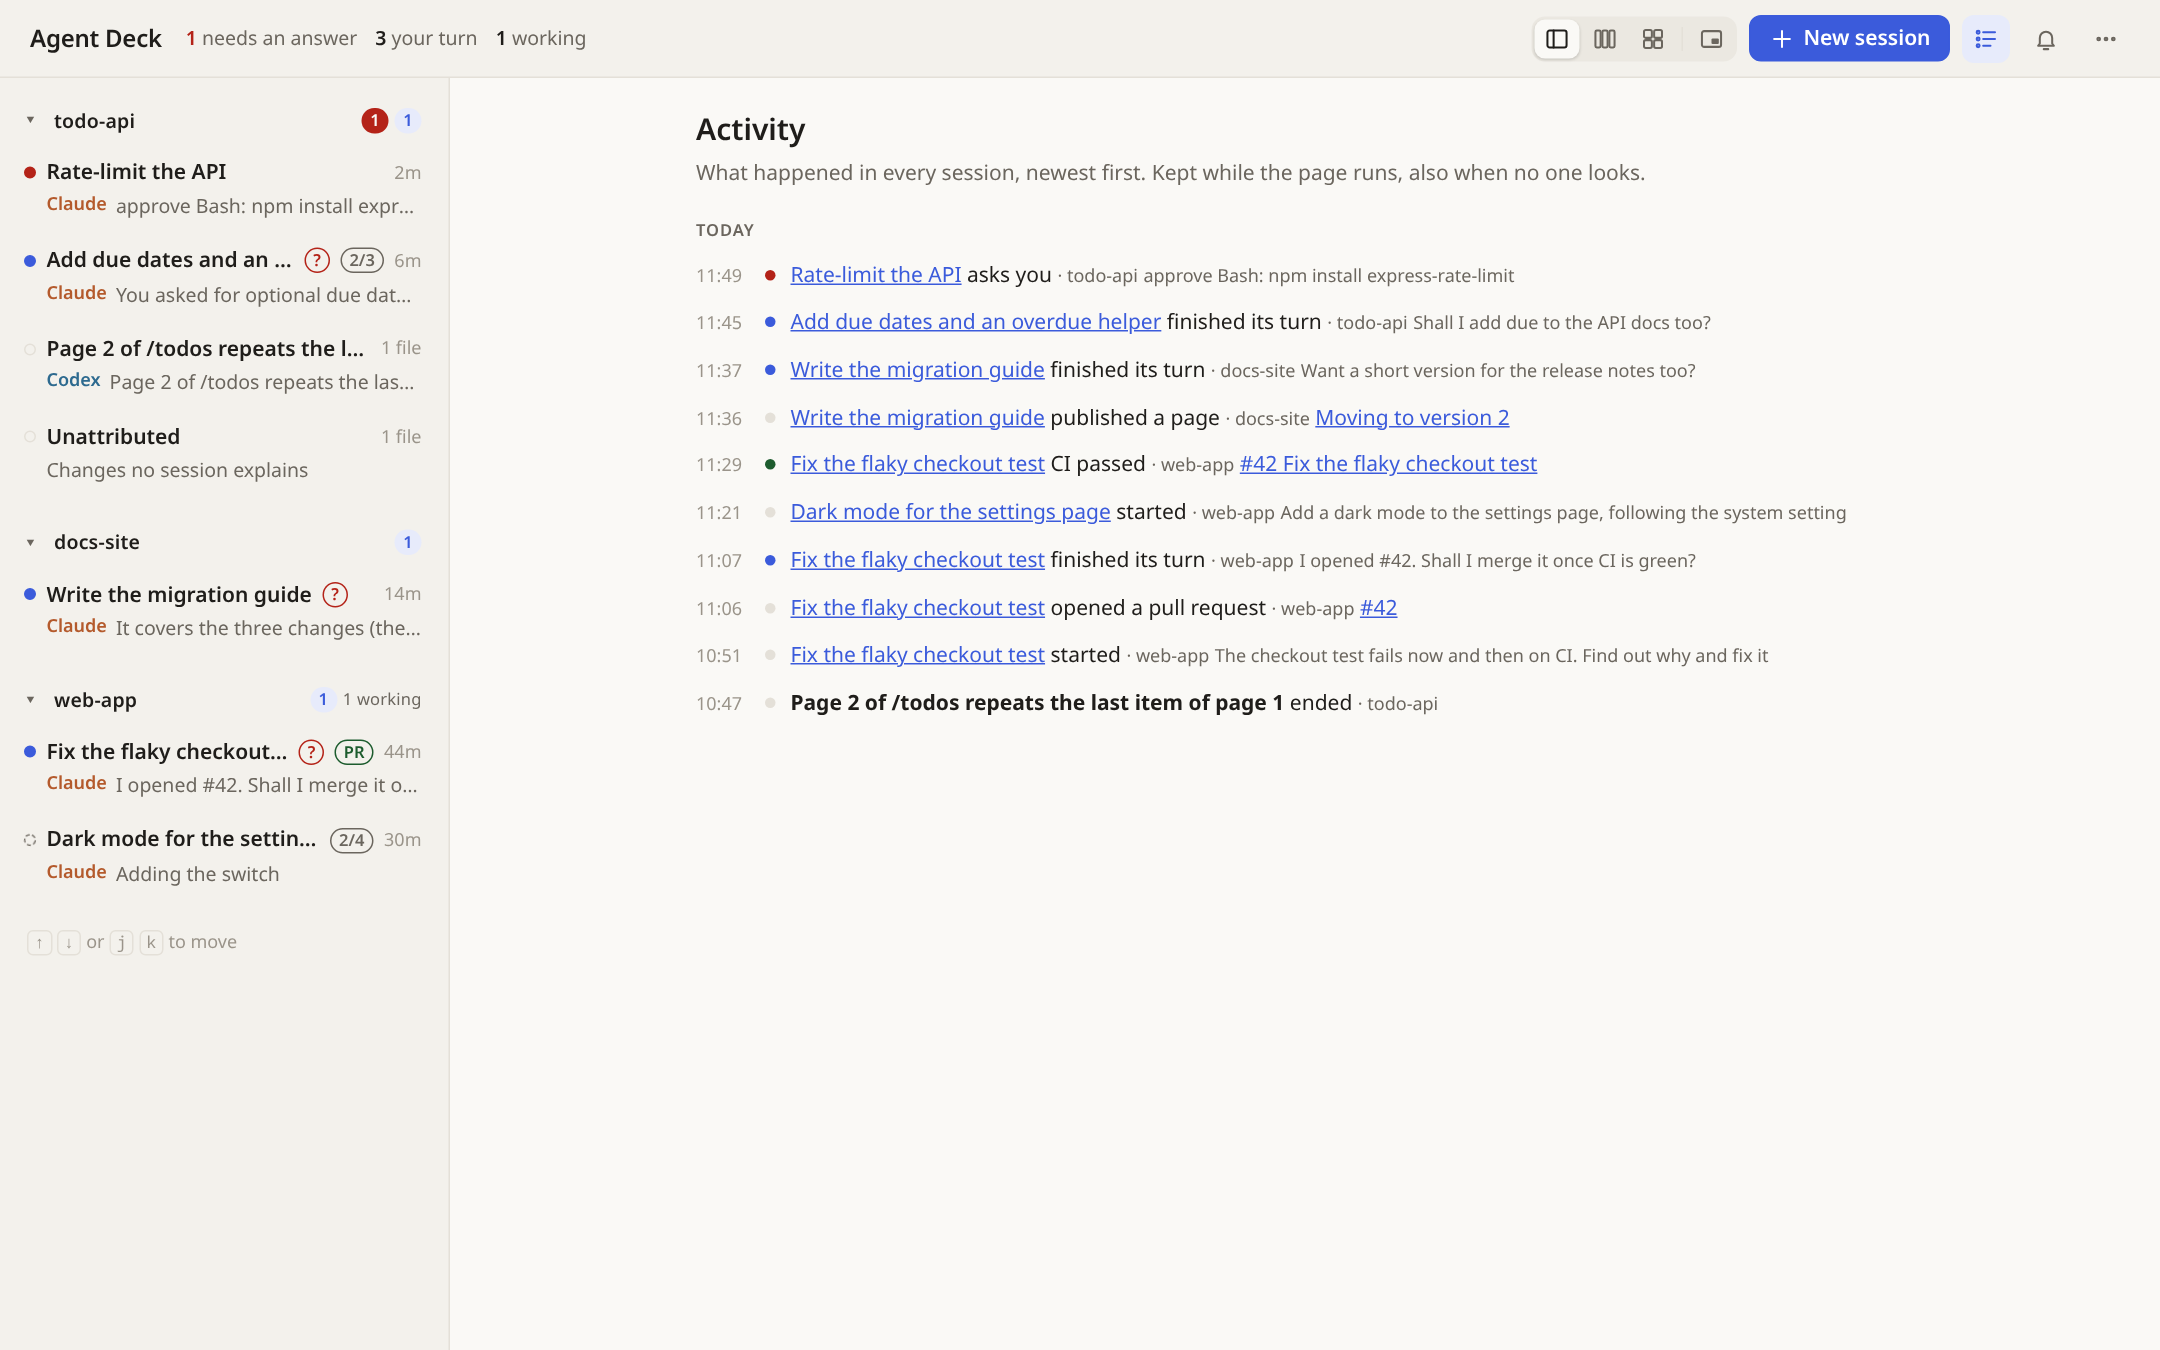
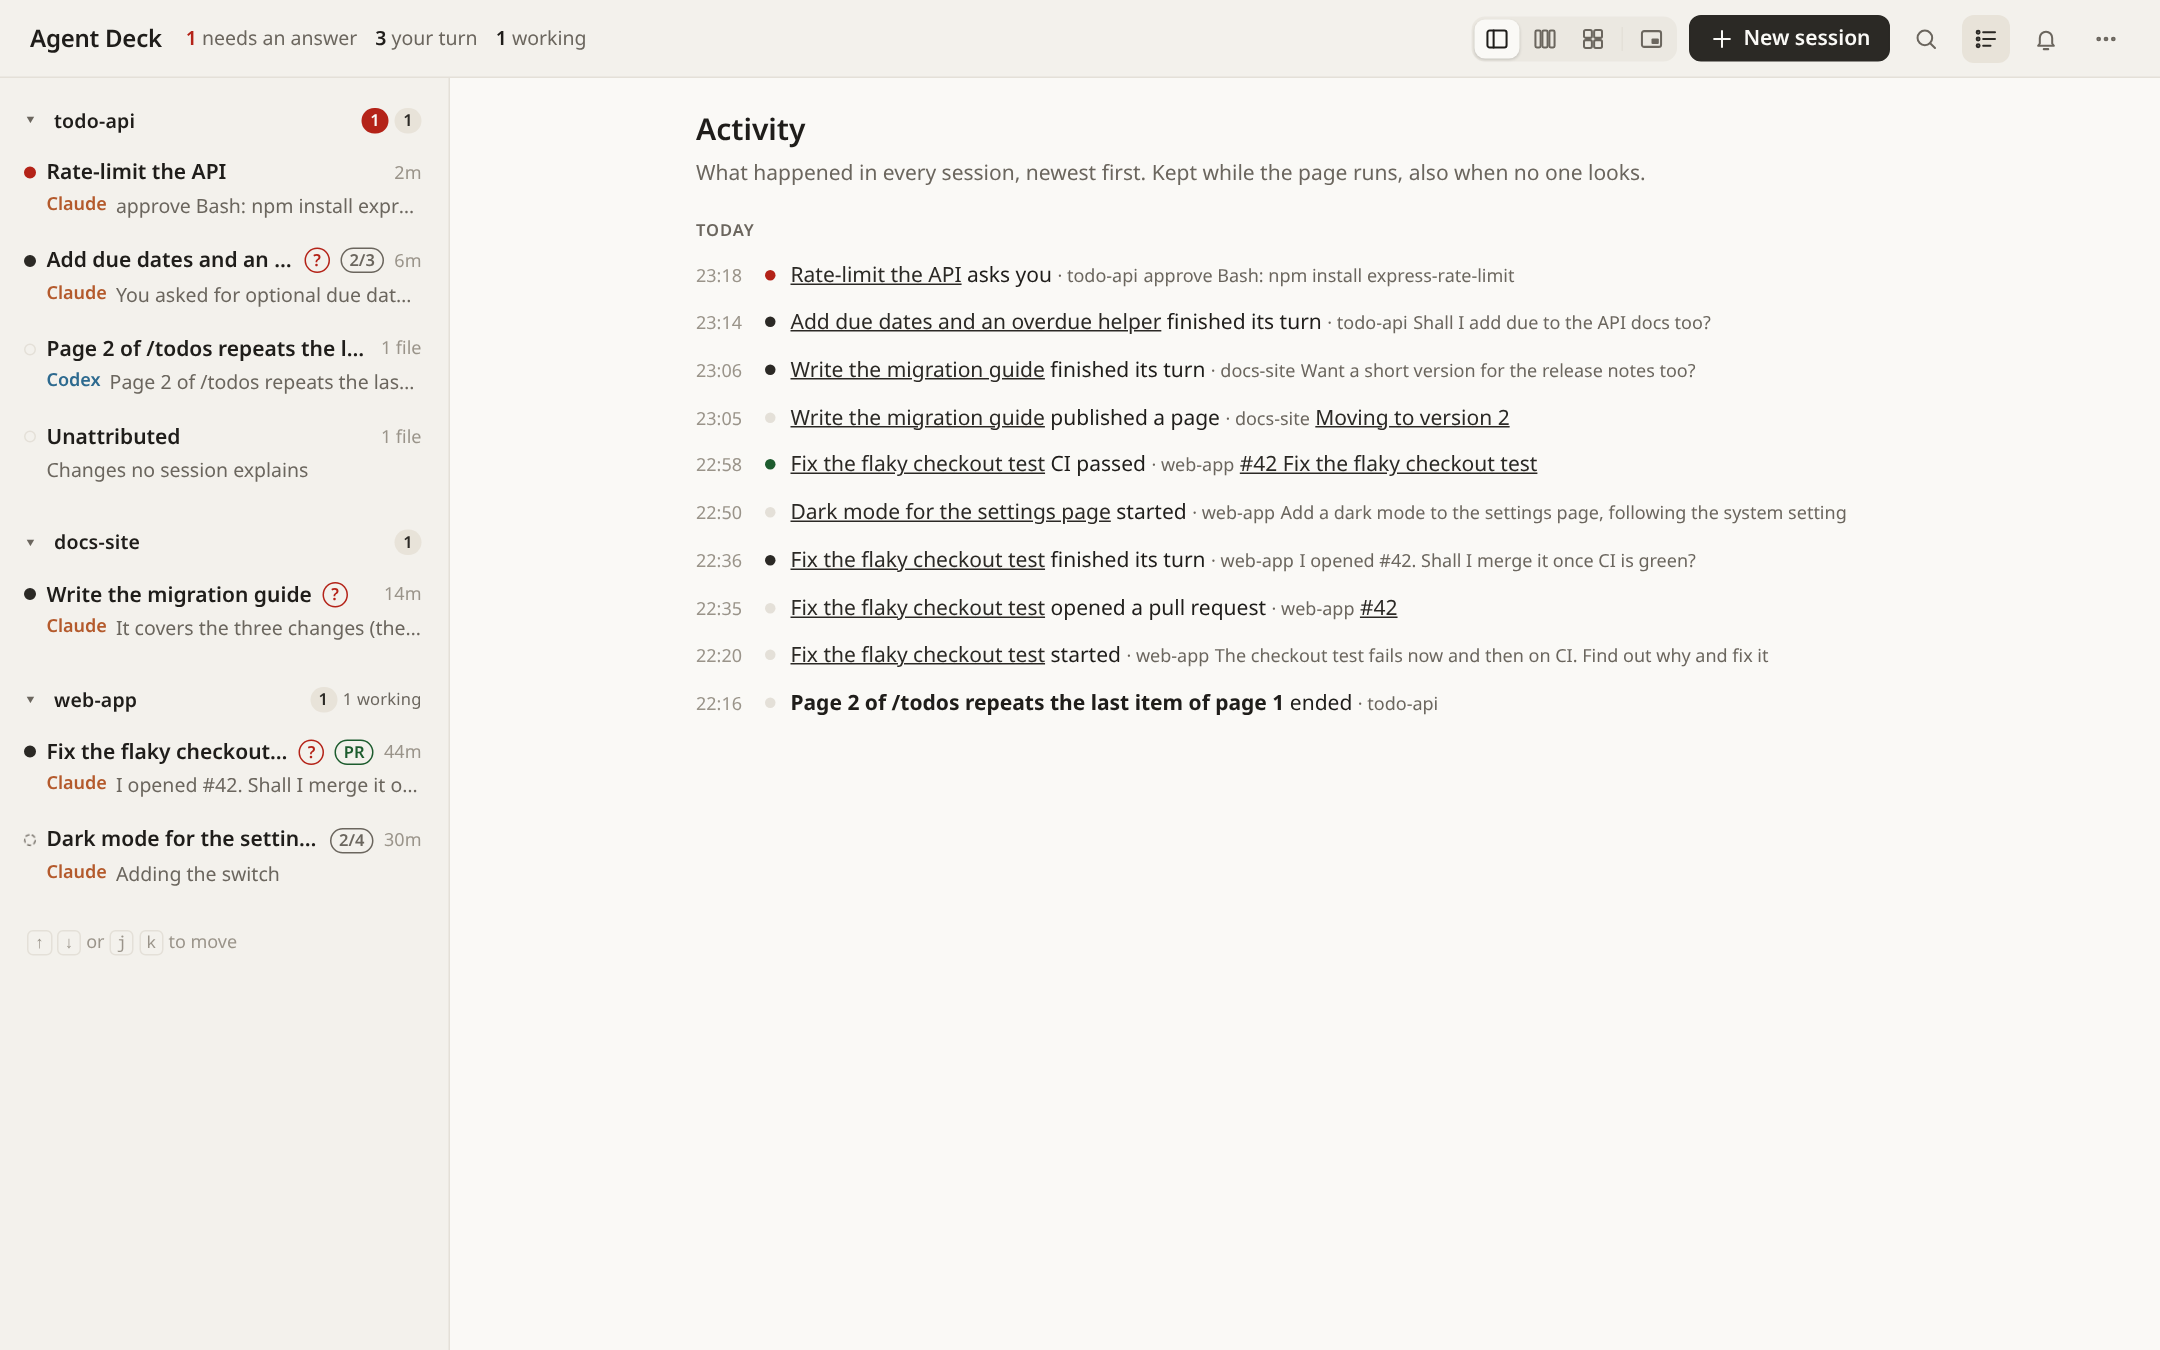
Themes: Sand, Blue, Green or Violet, in light or dark
The blue accent sat on warm neutrals and stood out from everything else.
Each palette now pairs its neutrals with its own accent; Sand, the default,
uses ink. More → Theme picks the palette and Auto, Light or Dark; a small
script in <head> applies it before the page is drawn.

diff --git a/src/viewer.html b/src/viewer.html
@@ -7,14 +7,19 @@
 <link rel="apple-touch-icon" href="/icon-180.png">
 <meta name="apple-mobile-web-app-capable" content="yes">
 <meta name="apple-mobile-web-app-title" content="Agent Deck">
-<meta name="theme-color" content="#faf9f6" media="(prefers-color-scheme: light)">
-<meta name="theme-color" content="#1b1a18" media="(prefers-color-scheme: dark)">
+<meta name="theme-color" content="#faf9f6">
 <title>Agent Deck</title>
 <style>
+/*
+ * Themes: a palette (the neutrals and the one color that marks what you can act on) in light and
+ * dark. The script in <head> sets data-palette and data-theme (light or dark, Auto following the
+ * system) before the page is drawn. Status colors (Claude, Codex, added, removed, waiting) stay
+ * the same in every palette, so they read the same whatever you picked.
+ */
 :root {
   --bg: #faf9f6; --side: #f3f1ec; --field: #ffffff; --text: #1f1d1a; --muted: #6b665e; --faint: #9a948a; --line: #e4e0d8;
   --hover: #ebe8e1; --selected: #e5e1d8; --bubble: #ebe7df; --code-bg: #efece5;
-  --accent: #3b5bdb; --accent-soft: #e7ebfb; --on-accent: #ffffff;
+  --accent: #2b2925; --accent-soft: #e8e3d9; --on-accent: #faf9f6;
   --add-bg: #e4f3e7; --add-text: #1d5c2e; --del-bg: #fbe9e9; --del-text: #8a2424;
   --hunk: #6f6a62; --claude: #b45a2c; --codex: #2d6a8f;
   --recorded: #1d5c2e; --sure: #2d6a8f; --likely: #8a6a12; --maybe: #8a2424;
@@ -24,17 +29,45 @@
   --col: 860px;
   color-scheme: light;
 }
-@media (prefers-color-scheme: dark) {
-  :root:not([data-theme="light"]) {
-    --bg: #1b1a18; --side: #201f1d; --field: #252421; --text: #ece9e4; --muted: #a29c92; --faint: #79746b; --line: #34322e;
-    --hover: #292826; --selected: #302e2b; --bubble: #2d2b28; --code-bg: #262422;
-    --accent: #8ea6ff; --accent-soft: #252e50; --on-accent: #10131f;
-    --add-bg: #1c3123; --add-text: #9fdcae; --del-bg: #382121; --del-text: #f0a5a5;
-    --hunk: #9c968c; --claude: #e39a72; --codex: #7fb8dc;
-    --recorded: #9fdcae; --sure: #7fb8dc; --likely: #e3c56f; --maybe: #f0a5a5;
-    --urgent: #ff9b8f; --urgent-soft: #3a2220; --warn: #e3c56f; --warn-soft: #362f1e; --ok: #9fdcae;
-    color-scheme: dark;
-  }
+:root[data-palette="blue"] {
+  --bg: #f8fafc; --side: #eff3f8; --field: #ffffff; --text: #1a1f29; --muted: #5d6676; --faint: #8b94a3; --line: #dde3ec;
+  --hover: #e6ebf2; --selected: #dce3ee; --bubble: #e4eaf3; --code-bg: #edf1f6;
+  --accent: #2f5bd3; --accent-soft: #e2e9fb; --on-accent: #ffffff;
+}
+:root[data-palette="green"] {
+  --bg: #f7f9f6; --side: #eef2ed; --field: #ffffff; --text: #1b211d; --muted: #5d6960; --faint: #8b978e; --line: #dde4dc;
+  --hover: #e5ebe4; --selected: #dbe3da; --bubble: #e2e9e0; --code-bg: #ebf0e9;
+  --accent: #2e7553; --accent-soft: #deeee5; --on-accent: #ffffff;
+}
+:root[data-palette="violet"] {
+  --bg: #f9f8fb; --side: #f1eff6; --field: #ffffff; --text: #1e1b25; --muted: #645f70; --faint: #948ea0; --line: #e3e0ea;
+  --hover: #eae7f1; --selected: #e1ddeb; --bubble: #e7e3f0; --code-bg: #efedf4;
+  --accent: #6246c9; --accent-soft: #ebe6fa; --on-accent: #ffffff;
+}
+:root[data-theme="dark"] {
+  --bg: #1b1a18; --side: #201f1d; --field: #252421; --text: #ece9e4; --muted: #a29c92; --faint: #79746b; --line: #34322e;
+  --hover: #292826; --selected: #302e2b; --bubble: #2d2b28; --code-bg: #262422;
+  --accent: #e9e5de; --accent-soft: #34312d; --on-accent: #1b1a18;
+  --add-bg: #1c3123; --add-text: #9fdcae; --del-bg: #382121; --del-text: #f0a5a5;
+  --hunk: #9c968c; --claude: #e39a72; --codex: #7fb8dc;
+  --recorded: #9fdcae; --sure: #7fb8dc; --likely: #e3c56f; --maybe: #f0a5a5;
+  --urgent: #ff9b8f; --urgent-soft: #3a2220; --warn: #e3c56f; --warn-soft: #362f1e; --ok: #9fdcae;
+  color-scheme: dark;
+}
+:root[data-theme="dark"][data-palette="blue"] {
+  --bg: #151922; --side: #191e28; --field: #1f2531; --text: #e5e9f1; --muted: #9aa3b4; --faint: #6c7586; --line: #2b3241;
+  --hover: #222937; --selected: #29313f; --bubble: #263042; --code-bg: #1d2330;
+  --accent: #8ca9ff; --accent-soft: #233157; --on-accent: #0e1424;
+}
+:root[data-theme="dark"][data-palette="green"] {
+  --bg: #161a17; --side: #1a1f1b; --field: #202621; --text: #e5ebe6; --muted: #9ba79e; --faint: #6d7970; --line: #2c342e;
+  --hover: #232a24; --selected: #29322b; --bubble: #27302a; --code-bg: #1e2420;
+  --accent: #82cfa6; --accent-soft: #1f3a2c; --on-accent: #0d1a13;
+}
+:root[data-theme="dark"][data-palette="violet"] {
+  --bg: #19171e; --side: #1d1b23; --field: #23202a; --text: #ebe8f1; --muted: #a49eb1; --faint: #767083; --line: #322e3b;
+  --hover: #27242e; --selected: #2e2a36; --bubble: #2d2937; --code-bg: #221f28;
+  --accent: #b6a2ff; --accent-soft: #2f2650; --on-accent: #16112a;
 }
 * { box-sizing: border-box; }
 [hidden] { display: none !important; }
@@ -77,6 +110,19 @@ header#top h1 { margin: 0; font-size: 16px; font-weight: 650; letter-spacing: -.
 .menu-list button:hover { background: var(--hover); }
 .menu-list button[aria-pressed="true"] { color: var(--accent); }
 .menu-list button svg { color: var(--muted); }
+.theme-pick { margin-top: 4px; padding: 8px 10px 4px; border-top: 1px solid var(--line); display: grid; gap: 8px; }
+.theme-label { font-size: 12px; color: var(--faint); }
+.theme-pick .swatches { display: flex; gap: 10px; }
+.menu-list .theme-pick .swatch { width: 28px; height: 28px; padding: 0; border-radius: 50%; border: 1px solid rgba(0, 0, 0, .18); }
+.menu-list .theme-pick .swatch:hover { transform: scale(1.08); }
+.menu-list .theme-pick .swatch[aria-pressed="true"] { box-shadow: 0 0 0 2px var(--bg), 0 0 0 4px var(--text); }
+.sw-sand { background: linear-gradient(135deg, #f3f1ec 50%, #2b2925 50%) !important; }
+.sw-blue { background: linear-gradient(135deg, #eff3f8 50%, #2f5bd3 50%) !important; }
+.sw-green { background: linear-gradient(135deg, #eef2ed 50%, #2e7553 50%) !important; }
+.sw-violet { background: linear-gradient(135deg, #f1eff6 50%, #6246c9 50%) !important; }
+.theme-pick .seg { justify-self: start; }
+.menu-list .theme-pick .seg button { width: auto; padding: 0 10px; border-radius: 7px; font-size: 12px; color: var(--muted); }
+.menu-list .theme-pick .seg button[aria-pressed="true"] { background: var(--bg); color: var(--text); }
 .menu-note { margin-top: 4px; padding: 6px 10px 2px; border-top: 1px solid var(--line); font-size: 12px; color: var(--faint); }
 .menu-note:empty { display: none; }
 .send-btn { display: inline-flex; align-items: center; justify-content: center; flex: none; width: 34px; height: 34px; padding: 0; border: 0; border-radius: 50%; background: var(--accent); color: var(--on-accent); cursor: pointer; }
@@ -511,6 +557,29 @@ body.pip { height: auto; min-height: 100vh; overflow: auto; display: block; }
   .sec { padding-left: 16px; padding-right: 16px; }
 }
 </style>
+<script>
+// The theme picked in this browser, set before the page is drawn so it never flashes another.
+const PALETTES = ["sand", "blue", "green", "violet"];
+const MODES = ["auto", "light", "dark"];
+const systemDark = matchMedia("(prefers-color-scheme: dark)");
+let theme = { palette: "sand", mode: "auto" };
+try {
+  const t = JSON.parse(localStorage.getItem("agent-deck:theme") || "{}") || {};
+  theme = { palette: PALETTES.includes(t.palette) ? t.palette : "sand", mode: MODES.includes(t.mode) ? t.mode : "auto" };
+} catch {
+  // storage blocked: the default theme
+}
+function applyTheme() {
+  const root = document.documentElement;
+  root.dataset.palette = theme.palette;
+  root.dataset.theme = theme.mode === "auto" ? (systemDark.matches ? "dark" : "light") : theme.mode;
+  // The browser's own bar, in the page's color.
+  const meta = document.querySelector('meta[name="theme-color"]');
+  if (meta) meta.content = getComputedStyle(root).getPropertyValue("--bg").trim();
+}
+applyTheme();
+systemDark.addEventListener("change", applyTheme);
+</script>
 </head>
 <body data-view="list" data-layout="focus">
 <header id="top">
@@ -526,6 +595,11 @@ body.pip { height: auto; min-height: 100vh; overflow: auto; display: block; }
     <details class="menu" id="more"><summary class="icon-btn" title="More" aria-label="More" data-icon="more"></summary><div class="menu-list">
       <button id="cleanup" data-icon="broom" title="Idle sessions and worktrees nobody uses">Clean up</button>
       <button id="remote" data-icon="phone" title="Use this page from your phone">Remote: your phone</button>
+      <div class="theme-pick" id="theme-pick">
+        <div class="theme-label">Theme</div>
+        <div class="swatches" role="group" aria-label="Colors"></div>
+        <div class="seg" role="group" aria-label="Light or dark"></div>
+      </div>
       <div class="menu-note" id="updated"></div>
     </div></details>
   </div>
@@ -635,10 +709,34 @@ const ICONS = {
 };
 const icon = (name, size = 18) => `<svg viewBox="0 0 24 24" width="${size}" height="${size}" fill="none" stroke="currentColor" stroke-width="1.8" stroke-linecap="round" stroke-linejoin="round" aria-hidden="true">${ICONS[name] || ""}</svg>`;
 for (const el of document.querySelectorAll("[data-icon]")) el.insertAdjacentHTML("afterbegin", icon(el.dataset.icon));
-// A menu closes when you pick from it, or click elsewhere.
+// A menu closes when you pick from it, or click elsewhere; the theme stays open to try others.
 document.addEventListener("click", (ev) => {
-  for (const m of document.querySelectorAll("details.menu[open]")) if (!m.contains(ev.target) || ev.target.closest(".menu-list button")) m.open = false;
+  for (const m of document.querySelectorAll("details.menu[open]")) if (!m.contains(ev.target) || (ev.target.closest(".menu-list button") && !ev.target.closest(".theme-pick"))) m.open = false;
 });
+const PALETTE_NAMES = { sand: "Sand", blue: "Blue", green: "Green", violet: "Violet" };
+const MODE_NAMES = { auto: "Auto", light: "Light", dark: "Dark" };
+const themePick = document.getElementById("theme-pick");
+themePick.querySelector(".swatches").innerHTML = PALETTES.map((p) => `<button class="swatch sw-${p}" data-palette="${p}" title="${PALETTE_NAMES[p]}" aria-label="${PALETTE_NAMES[p]}"></button>`).join("");
+themePick.querySelector(".seg").innerHTML = MODES.map((m) => `<button data-mode="${m}">${MODE_NAMES[m]}</button>`).join("");
+// Marked in place: a button replaced under the click would read as a click outside the menu.
+function paintThemePick() {
+  for (const b of themePick.querySelectorAll("[data-palette]")) b.setAttribute("aria-pressed", String(b.dataset.palette === theme.palette));
+  for (const b of themePick.querySelectorAll("[data-mode]")) b.setAttribute("aria-pressed", String(b.dataset.mode === theme.mode));
+}
+themePick.addEventListener("click", (ev) => {
+  const b = ev.target.closest("button");
+  if (!b) return;
+  if (b.dataset.palette) theme.palette = b.dataset.palette;
+  if (b.dataset.mode) theme.mode = b.dataset.mode;
+  try {
+    localStorage.setItem("agent-deck:theme", JSON.stringify(theme));
+  } catch {
+    // storage blocked: this visit only
+  }
+  applyTheme();
+  paintThemePick();
+});
+paintThemePick();
 const esc = (s) => String(s ?? "").replace(/[&<>"']/g, (c) => ({ "&": "&amp;", "<": "&lt;", ">": "&gt;", '"': "&quot;", "'": "&#39;" })[c]);
 /** Escaped text with its web links made links: what you typed to a session. */
 const linkify = (s) => esc(s).replace(/https?:\/\/[\w\-.~:/?#[\]@!$&*+,;=%()]*[\w\-~/#@$&*+=%]/g, (u) => `<a href="${u}" target="_blank" rel="noopener noreferrer">${u}</a>`);

diff --git a/test/ui.test.ts b/test/ui.test.ts
@@ -358,6 +358,26 @@ esac
     await page.waitForSelector(".session[aria-current=\"true\"]");
   });
 
+  it("keeps the theme you pick, its colors and light or dark", async () => {
+    const root = () => page.evaluate(() => [document.documentElement.dataset.palette, document.documentElement.dataset.theme]);
+    assert.equal((await root())[0], "sand");
+    await page.click("#more > summary");
+    await page.click('#theme-pick [data-palette="blue"]');
+    await page.click('#theme-pick [data-mode="dark"]');
+    assert.equal(await page.evaluate(() => (document.getElementById("more") as HTMLDetailsElement).open), true, "the menu stays open to try another");
+    assert.deepEqual(await root(), ["blue", "dark"]);
+    assert.equal(await page.locator('#theme-pick [data-palette="blue"]').getAttribute("aria-pressed"), "true");
+    const bg = await page.evaluate(() => getComputedStyle(document.body).backgroundColor);
+    assert.equal(bg, "rgb(21, 25, 34)");
+    await page.reload();
+    await page.waitForSelector(".session");
+    assert.deepEqual(await root(), ["blue", "dark"], "kept in this browser");
+    await page.click("#more > summary");
+    await page.click('#theme-pick [data-palette="sand"]');
+    await page.click('#theme-pick [data-mode="auto"]');
+    await page.click("#more > summary");
+  });
+
   it("shows a long conversation a page at a time, its steps folded, its HTML as text", async () => {
     await page.click('.session[data-key="claude:chatty"]');
     await page.waitForSelector("#chat .steps");

diff --git a/src/server.ts b/src/server.ts
@@ -265,7 +265,7 @@ function json(res: ServerResponse, status: number, value: unknown): void {
   send(res, status, "application/json; charset=utf-8", JSON.stringify(value));
 }
 
-/** An HTML page whose only script is the one carrying `nonce`, and which no other site may frame. */
+/** An HTML page whose only scripts are the ones carrying `nonce`, and which no other site may frame. */
 function html(res: ServerResponse, body: string, nonce: string): void {
   res.setHeader(
     "content-security-policy",
@@ -276,11 +276,11 @@ function html(res: ServerResponse, body: string, nonce: string): void {
   send(res, 200, "text/html; charset=utf-8", body);
 }
 
-/** The page, with its script allowed by the nonce and the mode it runs in. */
+/** The page, with its scripts allowed by the nonce and the mode it runs in. */
 function viewerPage(nonce: string, mode: "local" | "remote"): string {
   return readFileSync(PAGE, "utf8")
     .replace("<head>", `<head>\n<meta name="agent-deck-mode" content="${mode}">`)
-    .replace("<script>", `<script nonce="${nonce}">`)
+    .replaceAll("<script>", `<script nonce="${nonce}">`)
     .replace("/*@markdown*/", () => readFileSync(MARKDOWN, "utf8"))
     .replace("/*@passkey*/", () => PASSKEY_HELPERS)
     .replace("/*@layouts*/", () => userLayouts());

diff --git a/README.md b/README.md
@@ -96,7 +96,8 @@ agent-deck view --since today    # with the changes since a time or a commit
 | Tablet | The sessions and the conversation side by side; the details in their own tab |
 | Phone | The list, then one session full screen with Back; the reply box stays at the bottom |
 
-The page follows your system's light or dark setting.
+The page follows your system's light or dark setting. **More → Theme** picks its colors (Sand, Blue,
+Green or Violet) and Light or Dark instead of Auto; the choice is kept in that browser.
 
 ![The same page in the dark](docs/screenshots/viewer-dark.png)
 
